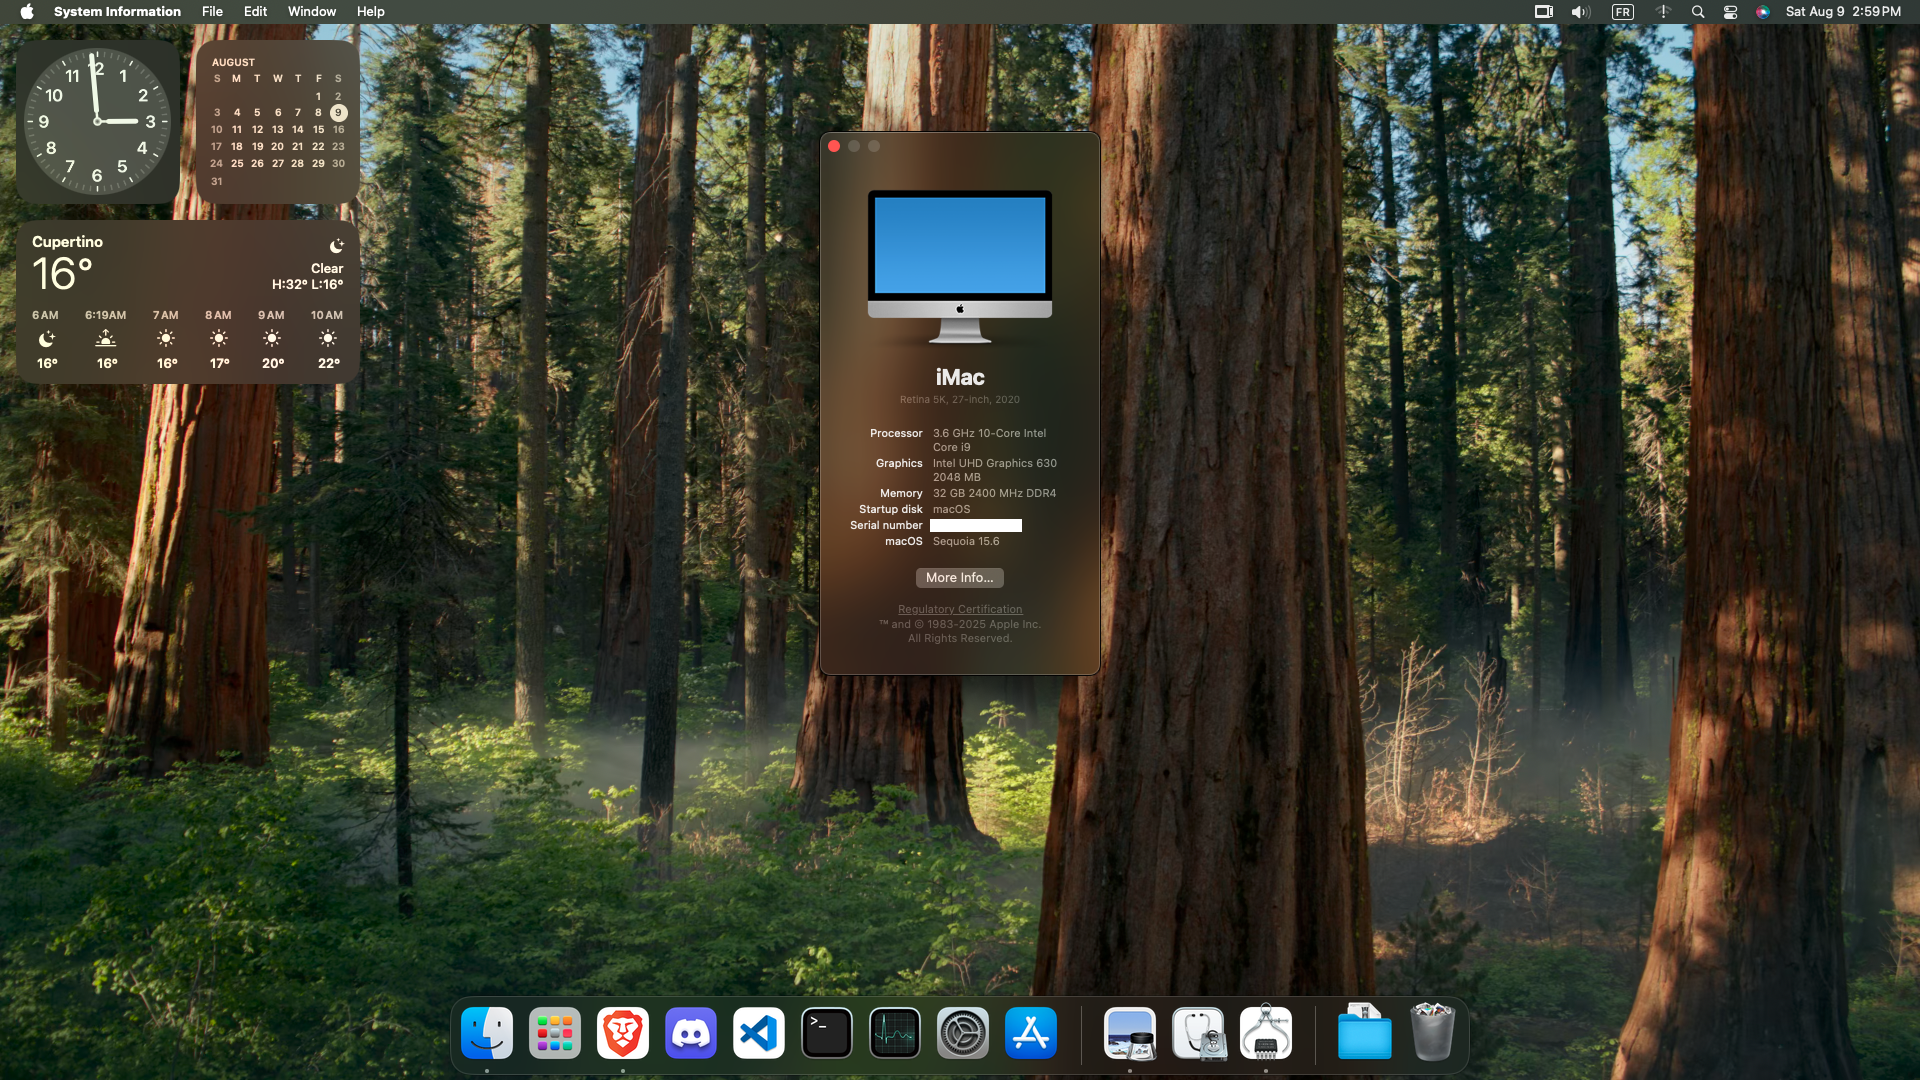
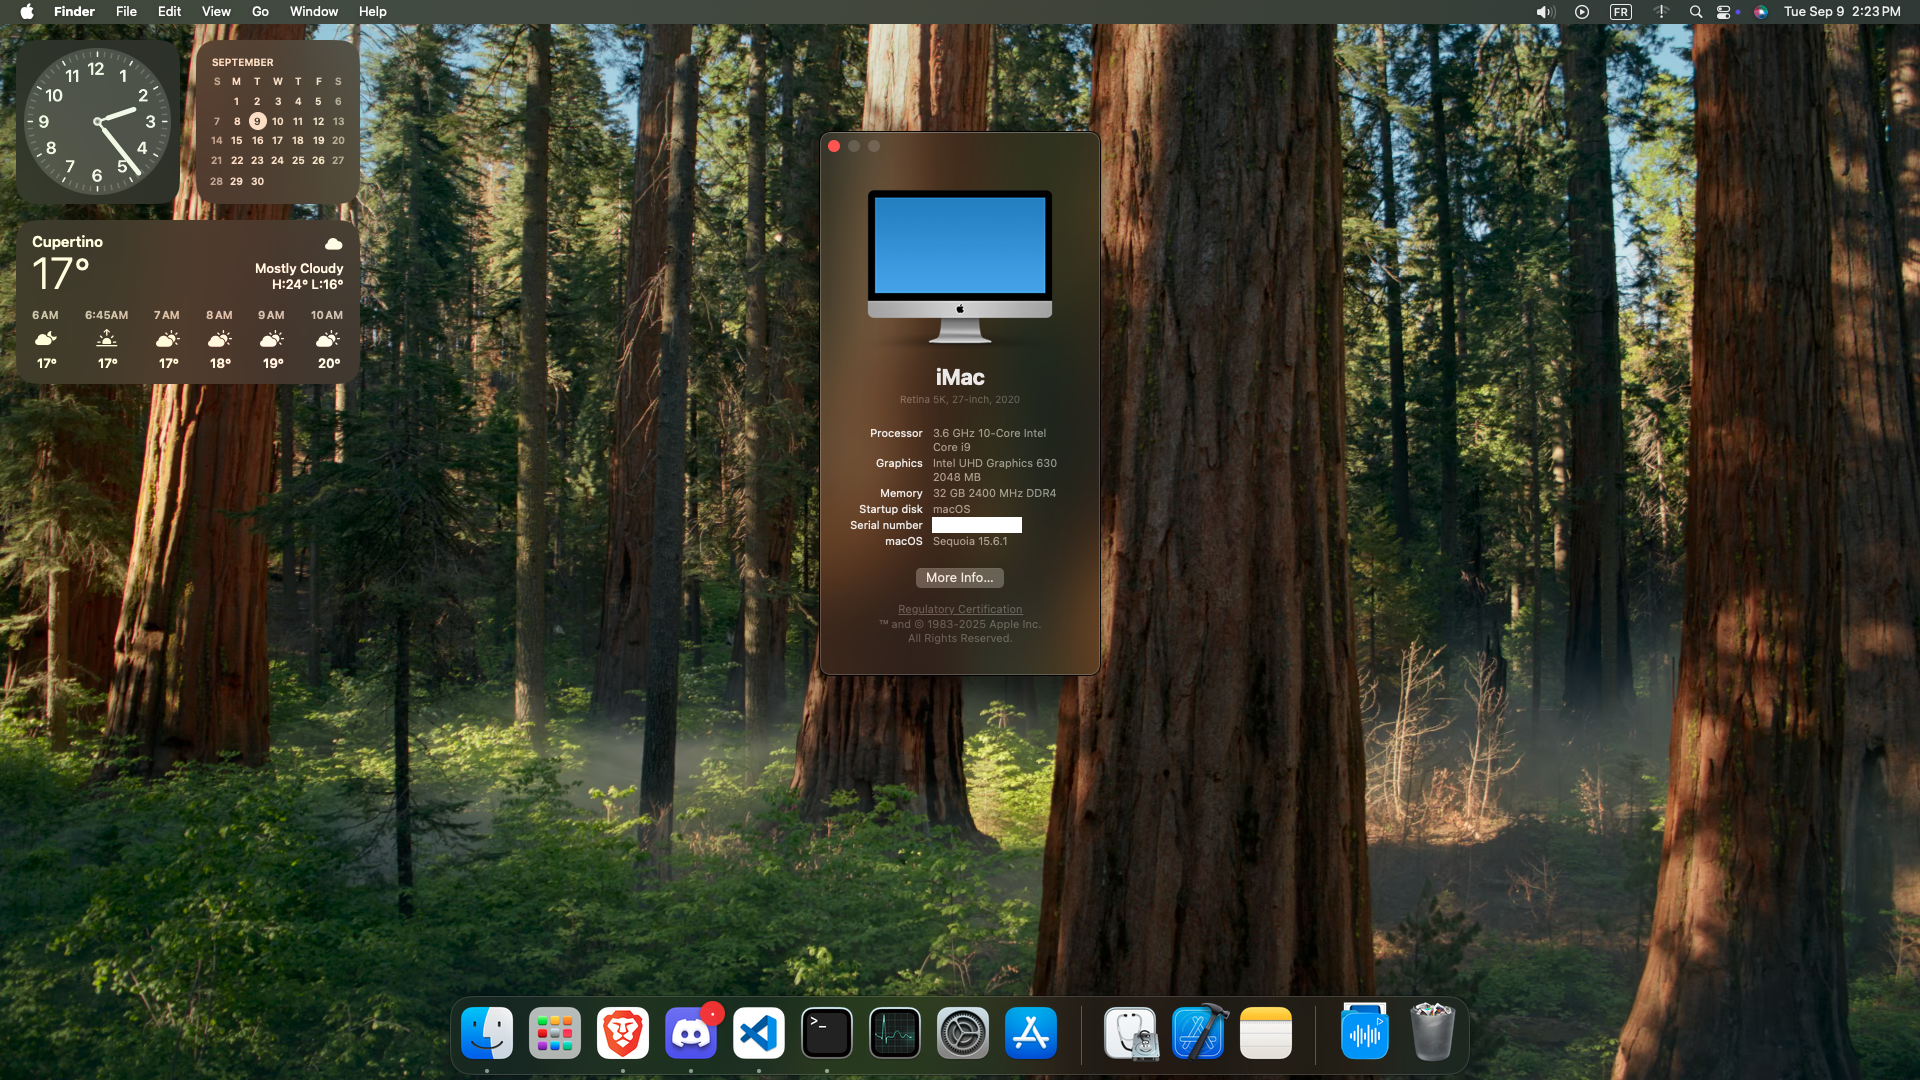
updated to Sequoia 15.6.1

diff --git a/README.md b/README.md
@@ -1,6 +1,6 @@
 # OpenCore Asus Proart Z490 Creator 10G 
 
-Using macOS Sequoia 15.6, OpenCore 1.0.4
+Using macOS Sequoia 15.6.1, OpenCore 1.0.4
 
 ![alt text](Resources/image.png)
 
@@ -22,7 +22,7 @@ Using macOS Sequoia 15.6, OpenCore 1.0.4
     - Duet 2 by Apogee with/without driver
     - Realtek S1220A 8-Channel
 - [x] **USB**: mapped some ports USB 2.0 and USB 3.0, not USB C port
-    - You will need to remap
+    - You will need to remap your USB ports
     - Remap using https://github.com/USBToolBox/tool
 - [x] **Ethernet**: 
     - 2.5Gbit Ethernet (Intel I225-V)
@@ -30,8 +30,10 @@ Using macOS Sequoia 15.6, OpenCore 1.0.4
 - [x] **Sleep/Wake**: using iGPU only
 - [x] **Shutdown/Restart**: fixed BIOS reset or sent into Safemode after reboot/shutdown
 - [x] **Bluetooth**: USB Bluetooth dongle TP-Link UB400
-- [x] **Updates**: From Sequoia 15.5 to Sequoia 15.6
-- [x] **Apple Secure Boot**: ApECID is generated
+- [x] **Updates**: From Sequoia 15.5 to Sequoia 15.6.1
+- [x] **Apple Secure Boot**: 
+    - ApECID is generated
+    - `nvram 94b73556-2197-4702-82a8-3e1337dafbfb:AppleSecureBootPolicy` returns `%02`
 
 ## Not working/not tested
 - [ ] RTX 2070
@@ -48,7 +50,7 @@ Using macOS Sequoia 15.6, OpenCore 1.0.4
         - `EFI/BOOT/BOOTx64.efi`
         - `EFI/OC/Drivers/OpenRuntime.efi`
         - `EFI/OC/OpenCore.efi`
-- You need to set `SecureBootModel` to `Disabled` to update or to complete installation to avoid bootloop ([see this](https://www.reddit.com/r/hackintosh/comments/1cdvijs/opencore_bootloader_menu_keeps_bootlooping_to/))
+- You need to set `SecureBootModel` to `Disabled` to complete the installation to avoid bootloop ([see this](https://www.reddit.com/r/hackintosh/comments/1cdvijs/opencore_bootloader_menu_keeps_bootlooping_to/))
 - You need to generate your [platform info](https://dortania.github.io/OpenCore-Install-Guide/config.plist/comet-lake.html#platforminfo):
     - Use Windows to get Apple ROM
     - In `SystemProductName`: modify `iMac20,1` by `iMac20,2`
@@ -60,18 +62,20 @@ Using macOS Sequoia 15.6, OpenCore 1.0.4
 - If you have `Failed to prepare the software update` error:
     - Verify that `SecureBootModel` is set to `Disabled`
     - Reset NVRAM
+    - Try again twice
     - Use Terminal:
         ```bash
         sudo softwareupdate -i -a -R
         ```
-- If macOS crash instantly, it may be related to the ApECID:
+    - Don't forget to change `SecureBootModel` back to `j185f` after the update and reset NVRAM again. You may need to personalize your macOS installation in **macOS Recovery** (see below)
+- If you boot into macOS Recovery automatically, it may be related to the ApECID:
     - You need to generate your own ApECID ([see this](https://dortania.github.io/OpenCore-Post-Install/universal/security/applesecureboot.html#apecid))
     - Personalize your macOS installation in **macOS Recovery**:
-    ```bash
-    # You'll also need an active network connection in recovery to run this command
-    # Replace "Macintosh HD" with your macOS disk name
-    bless --folder "/Volumes/Macintosh HD/System/Library/CoreServices" --bootefi --personalize
-    ```
+        ```bash
+        # You'll also need an active network connection in recovery to run this command
+        # Replace "Macintosh HD" with your macOS disk name
+        bless --folder "/Volumes/Macintosh HD/System/Library/CoreServices" --bootefi --personalize
+        ```
 
 ## Dual boot with different disks
 - If you already have EFI partition:
@@ -104,3 +108,4 @@ Available in `./Resources/Drivers`:
 - Bluetooth dongle fix: https://www.reddit.com/r/hackintosh/comments/16w2elb/how_to_make_generic_usb_bluetooth_50_csr_dongle/
 - Fix for bootloop in installer: https://www.reddit.com/r/hackintosh/comments/1cdvijs/opencore_bootloader_menu_keeps_bootlooping_to/
 - USB remap: https://github.com/USBToolBox/tool
+- Check Apple Secure Boot: https://github.com/perez987/Apple-Secure-Boot-and-Vault-with-OpenCore
